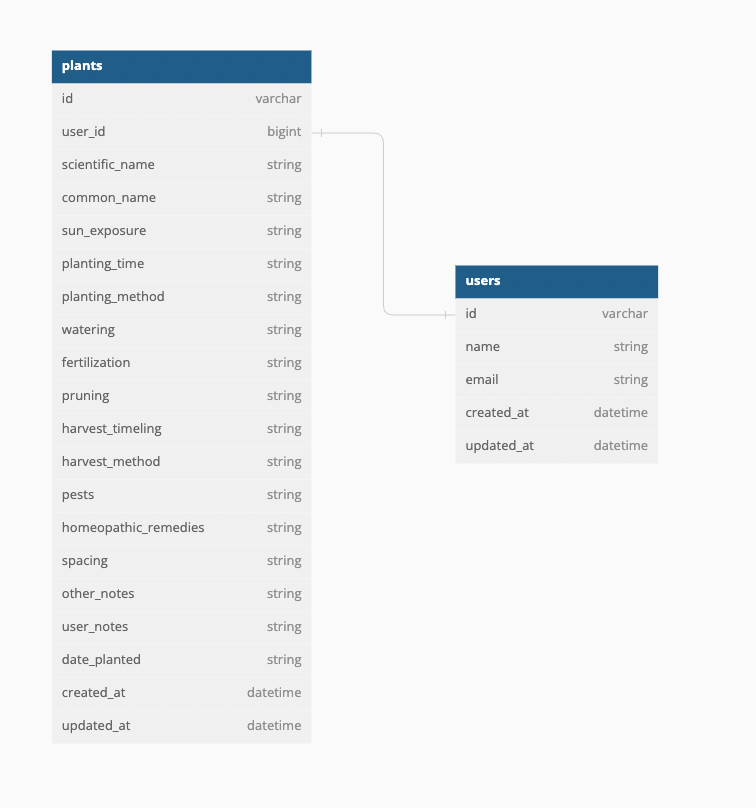
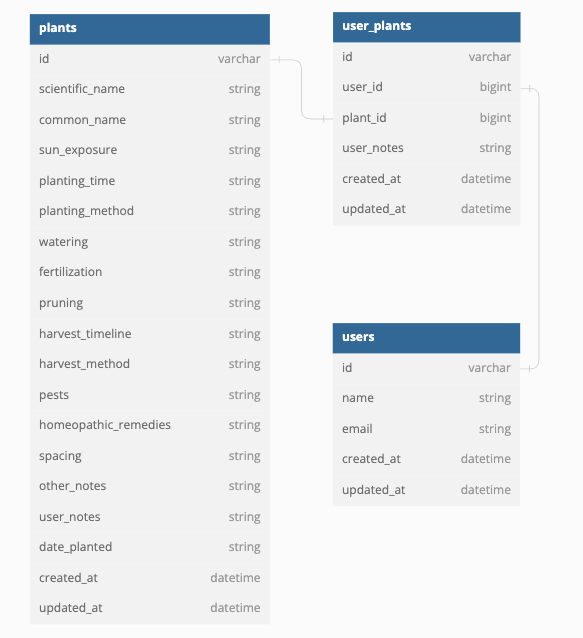
chore: update db schema to use a joins table so that a plant can belong to many users

diff --git a/db/schema.rb b/db/schema.rb
@@ -10,12 +10,11 @@
 #
 # It's strongly recommended that you check this file into your version control system.
 
-ActiveRecord::Schema[7.0].define(version: 2023_06_13_183559) do
+ActiveRecord::Schema[7.0].define(version: 2023_06_13_191803) do
   # These are extensions that must be enabled in order to support this database
   enable_extension "plpgsql"
 
   create_table "plants", force: :cascade do |t|
-    t.bigint "user_id", null: false
     t.string "scientific_name"
     t.string "common_name"
     t.string "sun_exposure"
@@ -24,7 +23,7 @@ ActiveRecord::Schema[7.0].define(version: 2023_06_13_183559) do
     t.string "watering"
     t.string "fertilization"
     t.string "pruning"
-    t.string "harvest_timeling"
+    t.string "harvest_timeline"
     t.string "harvest_method"
     t.string "pests"
     t.string "homeopathic_remedies"
@@ -34,7 +33,16 @@ ActiveRecord::Schema[7.0].define(version: 2023_06_13_183559) do
     t.string "date_planted"
     t.datetime "created_at", null: false
     t.datetime "updated_at", null: false
-    t.index ["user_id"], name: "index_plants_on_user_id"
+  end
+
+  create_table "user_plants", force: :cascade do |t|
+    t.bigint "user_id", null: false
+    t.bigint "plant_id", null: false
+    t.string "user_notes"
+    t.datetime "created_at", null: false
+    t.datetime "updated_at", null: false
+    t.index ["plant_id"], name: "index_user_plants_on_plant_id"
+    t.index ["user_id"], name: "index_user_plants_on_user_id"
   end
 
   create_table "users", force: :cascade do |t|
@@ -44,5 +52,6 @@ ActiveRecord::Schema[7.0].define(version: 2023_06_13_183559) do
     t.datetime "updated_at", null: false
   end
 
-  add_foreign_key "plants", "users"
+  add_foreign_key "user_plants", "plants"
+  add_foreign_key "user_plants", "users"
 end

diff --git a/db/migrate/20230613183559_create_plants.rb b/db/migrate/20230613183559_create_plants.rb
@@ -1,7 +1,6 @@
 class CreatePlants < ActiveRecord::Migration[7.0]
   def change
     create_table :plants do |t|
-      t.references :user, null: false, foreign_key: true
       t.string :scientific_name
       t.string :common_name
       t.string :sun_exposure
@@ -10,7 +9,7 @@ class CreatePlants < ActiveRecord::Migration[7.0]
       t.string :watering
       t.string :fertilization
       t.string :pruning
-      t.string :harvest_timeling
+      t.string :harvest_timeline
       t.string :harvest_method
       t.string :pests
       t.string :homeopathic_remedies

diff --git a/db/migrate/20230613191803_create_user_plants.rb b/db/migrate/20230613191803_create_user_plants.rb
@@ -1,0 +1,11 @@
+class CreateUserPlants < ActiveRecord::Migration[7.0]
+  def change
+    create_table :user_plants do |t|
+      t.references :user, null: false, foreign_key: true
+      t.references :plant, null: false, foreign_key: true
+      t.string :user_notes
+
+      t.timestamps
+    end
+  end
+end
